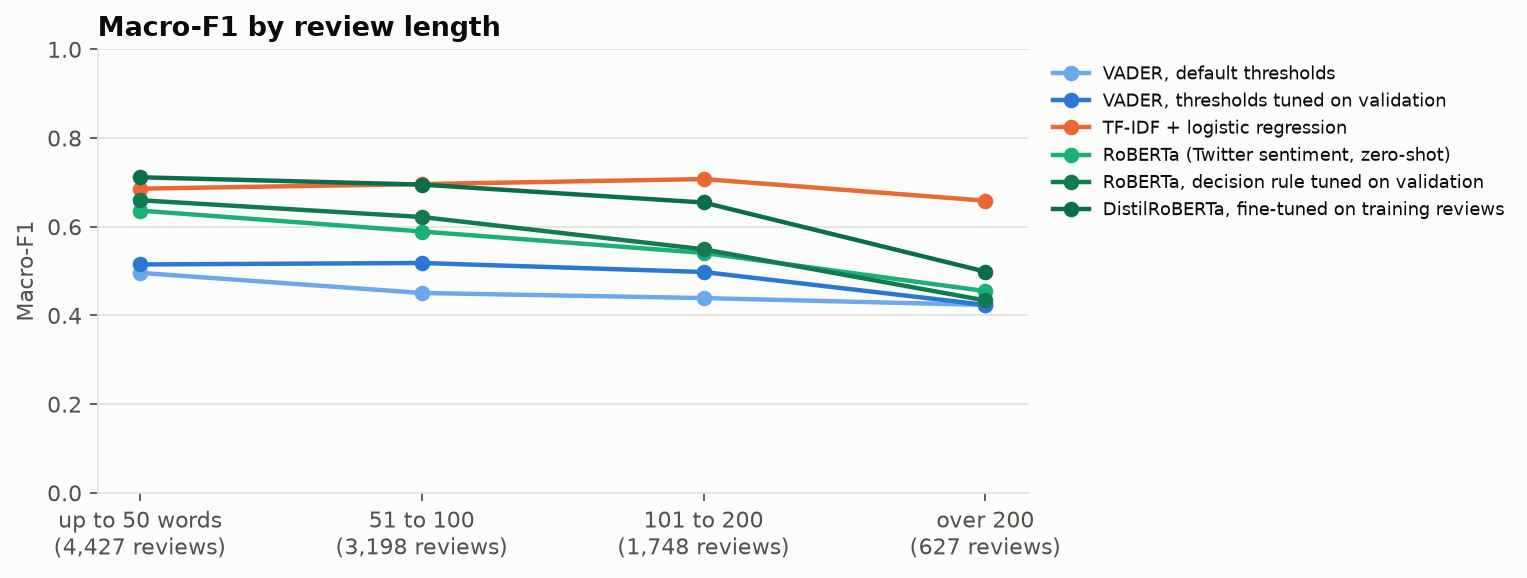
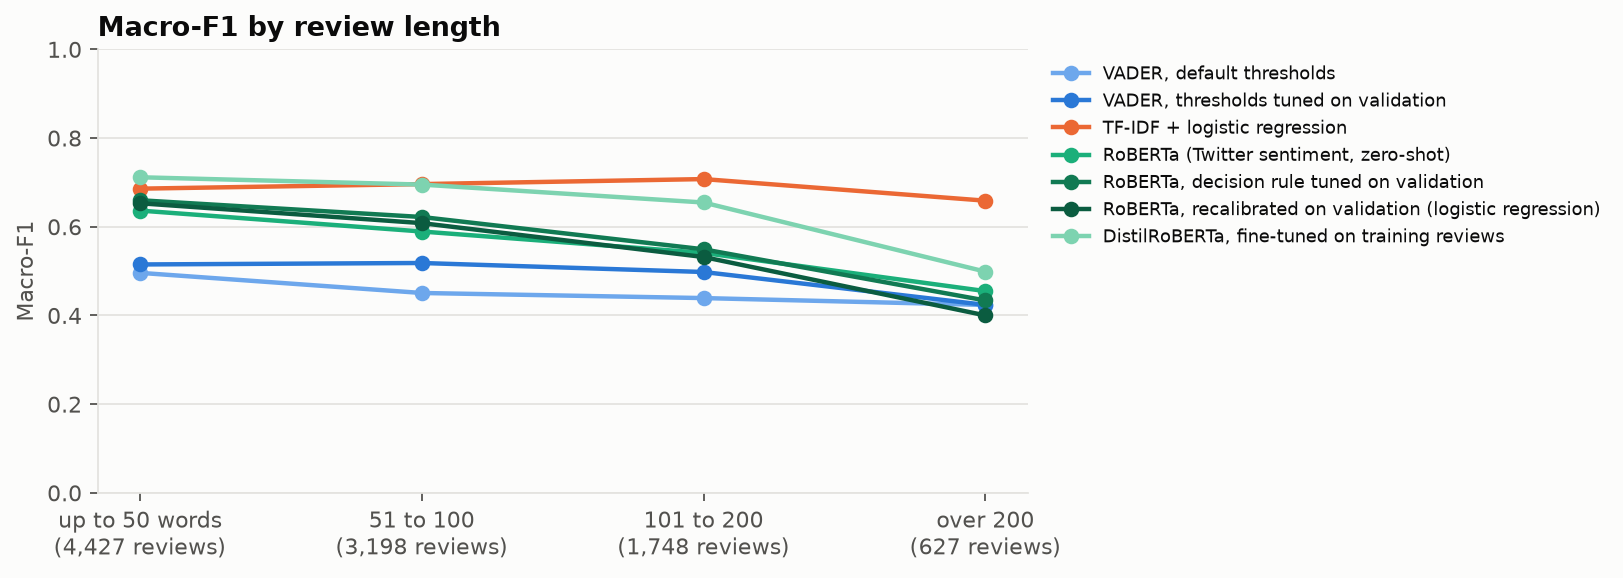
Add a recalibrated RoBERTa and per-class scores to the sentiment results

diff --git a/src/dap/sentiment/models.py b/src/dap/sentiment/models.py
@@ -1,8 +1,8 @@
 """The baselines: VADER (rule-based) and TF-IDF with logistic regression.
 
 Anything that gets tuned (VADER's thresholds, the regression's C and class weights, RoBERTa's
-decision rule) is tuned on the validation reviewers only. The evaluation sample is touched once,
-at the end.
+decision rule and its recalibration) is tuned on the validation reviewers only. The evaluation
+sample is touched once, at the end.
 """
 
 import numpy as np
@@ -11,12 +11,14 @@ from sklearn.feature_extraction.text import TfidfVectorizer
 from sklearn.linear_model import LogisticRegression
 from sklearn.metrics import f1_score
 
+from dap.common.seeds import SEED
 from dap.sentiment.clean import LABELS
 
 VADER_DEFAULT = (-0.05, 0.05)  # the thresholds from the VADER paper, and what my first version used
 THRESHOLD_GRID = np.round(np.arange(-0.95, 0.96, 0.05), 2)
 # Offsets added to RoBERTa's log probabilities for negative and neutral (positive stays at 0)
 OFFSET_GRID = np.round(np.arange(-3.0, 3.01, 0.1), 1)
+CALIBRATION_GRID = (None, "balanced")  # class weighting for the regression on RoBERTa's scores
 TFIDF_GRID = [{"C": c, "class_weight": cw} for c in (0.5, 2.0, 8.0) for cw in (None, "balanced")]
 
 
@@ -117,3 +119,57 @@ def tune_roberta(probs: pd.DataFrame, y: np.ndarray) -> tuple[dict[str, float], 
             if best_key is None or key > best_key:
                 best, best_key = offsets, key
     return best, float(best_key[0])
+
+
+def offsets_inside_grid(offsets: dict[str, float]) -> bool:
+    """True when no tuned offset sits on the grid's edge (an edge means the grid was too small)."""
+    lo, hi = float(OFFSET_GRID.min()), float(OFFSET_GRID.max())
+    return all(lo < offsets[lab] < hi for lab in ("negative", "neutral"))
+
+
+class RobertaCalibration:
+    """A multinomial logistic regression on RoBERTa's three log probabilities ("matrix scaling").
+
+    The offsets above can only shift each class's score; this can also reweight them against each
+    other. It is fitted on validation reviews only, and the class weighting is picked by 5-fold
+    cross-validation inside those reviews, so the fit never scores itself on rows it learnt from.
+    """
+
+    def fit(self, probs: pd.DataFrame, y: np.ndarray, prefix: str = "p_") -> "RobertaCalibration":
+        from sklearn.model_selection import StratifiedKFold, cross_val_predict
+
+        x = self._features(probs, prefix)
+        folds = StratifiedKFold(n_splits=5, shuffle=True, random_state=SEED)
+        self.search_ = {}
+        for cw in CALIBRATION_GRID:
+            pred = cross_val_predict(self._model(cw), x, y, cv=folds)
+            f1 = f1_score(y, pred, average="macro", labels=LABELS, zero_division=0)
+            self.search_[str(cw)] = float(f1)
+        self.class_weight_ = max(CALIBRATION_GRID, key=lambda cw: self.search_[str(cw)])
+        self.cv_macro_f1_ = self.search_[str(self.class_weight_)]
+        self.model_ = self._model(self.class_weight_).fit(x, y)
+        return self
+
+    def predict(self, probs: pd.DataFrame, prefix: str = "p_") -> np.ndarray:
+        return self.model_.predict(self._features(probs, prefix))
+
+    def coefficients(self) -> dict[str, dict[str, float]]:
+        """One row per predicted class: its weight on each log probability, and its intercept."""
+        classes = self.model_.classes_
+        if len(classes) == 2:  # a binary fit keeps one row, for the second class
+            classes = classes[1:]
+        out = {}
+        for i, cls in enumerate(classes):
+            weights = zip(LABELS, self.model_.coef_[i], strict=True)
+            row = {f"log_p_{lab}": float(w) for lab, w in weights}
+            out[str(cls)] = row | {"intercept": float(self.model_.intercept_[i])}
+        return out
+
+    @staticmethod
+    def _model(class_weight):
+        return LogisticRegression(class_weight=class_weight, max_iter=1000)
+
+    @staticmethod
+    def _features(probs: pd.DataFrame, prefix: str) -> np.ndarray:
+        cols = [f"{prefix}{lab}" for lab in LABELS]
+        return np.log(np.clip(probs[cols].to_numpy(dtype=float), 1e-6, None))

diff --git a/src/dap/sentiment/train.py b/src/dap/sentiment/train.py
@@ -31,6 +31,7 @@ LABELS_FOR = {
     "tfidf_logistic": "TF-IDF + logistic regression",
     "roberta": "RoBERTa (Twitter sentiment, zero-shot)",
     "roberta_tuned": "RoBERTa, decision rule tuned on validation",
+    "roberta_calibrated": "RoBERTa, recalibrated on validation (logistic regression)",
     "finetuned": "DistilRoBERTa, fine-tuned on training reviews",
 }
 VADER_TUNING_SIZE = 20_000  # validation reviews used to pick VADER's thresholds
@@ -63,11 +64,33 @@ def roberta_rule(df: pd.DataFrame, path: Path | None = None) -> tuple[dict[str, 
     log.info("RoBERTa: tuning the decision rule on %d validation reviews", len(tune))
     offsets, tuned_f1 = M.tune_roberta(tune, tune.label.to_numpy())
     argmax_f1 = f1_score(tune.label, M.roberta_labels(tune), average="macro", labels=LABELS)
+    grid = M.OFFSET_GRID
     return offsets, {
         "roberta_tuned_log_offsets": offsets,
+        "roberta_offset_grid": {
+            "low": float(grid.min()),
+            "high": float(grid.max()),
+            "step": float(round(grid[1] - grid[0], 6)),
+        },
+        "roberta_offsets_inside_grid": M.offsets_inside_grid(offsets),
         "roberta_tuning_reviews": len(tune),
         "roberta_argmax_validation_macro_f1": float(argmax_f1),
         "roberta_tuned_validation_macro_f1": tuned_f1,
+    }
+
+
+def roberta_calibration(
+    df: pd.DataFrame, path: Path | None = None
+) -> tuple[M.RobertaCalibration, dict]:
+    """Fit the regression on RoBERTa's scores, on the same validation sample as the offsets."""
+    tune = with_roberta(tuning_sample(df), path or validation_cache_path())
+    log.info("RoBERTa: recalibrating on %d validation reviews", len(tune))
+    cal = M.RobertaCalibration().fit(tune, tune.label.to_numpy())
+    return cal, {
+        "roberta_calibrated_class_weight": str(cal.class_weight_),
+        "roberta_calibrated_search": cal.search_,
+        "roberta_calibrated_cv_macro_f1": cal.cv_macro_f1_,
+        "roberta_calibrated_coefficients": cal.coefficients(),
     }
 
 
@@ -97,6 +120,7 @@ def predict_all(
     compound = M.vader_compound(ev.text)
 
     offsets, rule_settings = roberta_rule(df)
+    calibration, calibration_settings = roberta_calibration(df)
 
     log.info("TF-IDF: fitting on %d training reviews", len(train))
     tfidf = M.TfidfLogistic().fit(train.text, train.label, val.text, val.label)
@@ -107,18 +131,23 @@ def predict_all(
         "tfidf_logistic": tfidf.predict(ev.text),
         "roberta": M.roberta_labels(ev),
         "roberta_tuned": M.roberta_labels(ev, offsets),
+        "roberta_calibrated": calibration.predict(ev),
         "finetuned": M.roberta_labels(ev, prefix="ft_p_"),
     }
-    settings = {
-        "vader_default_thresholds": list(M.VADER_DEFAULT),
-        "vader_tuned_thresholds": list(thresholds),
-        "vader_tuning_reviews": len(tune),
-        "vader_tuned_validation_macro_f1": vader_val_f1,
-        "tfidf_params": tfidf.params_,
-        "tfidf_vocabulary": len(tfidf.vectoriser.vocabulary_),
-        "tfidf_validation_macro_f1": tfidf.validation_macro_f1_,
-        "tfidf_search": tfidf.search_,
-    } | rule_settings
+    settings = (
+        {
+            "vader_default_thresholds": list(M.VADER_DEFAULT),
+            "vader_tuned_thresholds": list(thresholds),
+            "vader_tuning_reviews": len(tune),
+            "vader_tuned_validation_macro_f1": vader_val_f1,
+            "tfidf_params": tfidf.params_,
+            "tfidf_vocabulary": len(tfidf.vectoriser.vocabulary_),
+            "tfidf_validation_macro_f1": tfidf.validation_macro_f1_,
+            "tfidf_search": tfidf.search_,
+        }
+        | rule_settings
+        | calibration_settings
+    )
     ev = ev.assign(vader_compound=compound, **{f"pred_{m}": p for m, p in preds.items()})
     return ev, preds, settings, tfidf
 

diff --git a/tests/test_sentiment.py b/tests/test_sentiment.py
@@ -235,6 +235,71 @@ def test_roberta_rule_never_sees_test_rows(tmp_path):
     assert M.tune_roberta(rows, df.label[test].to_numpy())[0] != offsets
 
 
+def test_offsets_on_the_grid_edge_are_flagged():
+    assert M.offsets_inside_grid({"negative": -1.0, "neutral": -0.2, "positive": 0.0})
+    assert not M.offsets_inside_grid({"negative": float(M.OFFSET_GRID.min()), "neutral": 0.0})
+    assert not M.offsets_inside_grid({"negative": 0.0, "neutral": float(M.OFFSET_GRID.max())})
+
+
+def test_committed_rule_is_not_on_the_grid_edge():
+    """Offsets on the grid's edge would mean the grid was too small, and the README wrong."""
+    import json
+
+    from dap.sentiment import train as T
+
+    path = T.reports_dir() / "results.json"
+    if not path.exists():
+        pytest.skip("no sentiment results yet")
+    settings = json.loads(path.read_text(encoding="utf-8"))["settings"]
+    assert settings["roberta_offsets_inside_grid"]
+    assert M.offsets_inside_grid(settings["roberta_tuned_log_offsets"])
+
+
+def test_calibration_fixes_an_under_called_class():
+    probs, y = under_called_neutral(600, 0)
+    cal = M.RobertaCalibration().fit(probs, y)
+    new_probs, new_y = under_called_neutral(600, 5)
+    labels = list(C.LABELS)
+    argmax_f1 = f1_score(new_y, M.roberta_labels(new_probs), average="macro", labels=labels)
+    cal_f1 = f1_score(new_y, cal.predict(new_probs), average="macro", labels=labels)
+    assert cal_f1 > argmax_f1 + 0.2
+    assert set(cal.search_) == {str(cw) for cw in M.CALIBRATION_GRID}
+
+
+def test_calibration_never_sees_test_rows(tmp_path):
+    """Scrambling the test reviewers' labels and RoBERTa outputs must not move the regression."""
+    from dap.sentiment import train as T
+
+    val_probs, val_y = under_called_neutral(300, 1)
+    test_probs, test_y = under_called_neutral(300, 2)
+    df = pd.DataFrame(
+        {
+            "review_id": np.arange(600),
+            "split": ["validation"] * 300 + ["test"] * 300,
+            "label": np.concatenate([val_y, test_y]),
+            "text": "x",
+        }
+    )
+    cache = pd.concat([val_probs, test_probs], ignore_index=True).assign(
+        review_id=df.review_id, n_tokens=5
+    )
+    path = tmp_path / "roberta_validation_predictions.csv"
+    cache.to_csv(path, index=False)
+    before = T.roberta_calibration(df, path)[1]
+
+    rng = np.random.default_rng(3)
+    test = df.split == "test"
+    df.loc[test, "label"] = rng.choice(["negative", "positive"], test.sum())
+    cache.loc[test, ["p_negative", "p_neutral", "p_positive"]] = [0.2, 0.45, 0.35]
+    cache.to_csv(path, index=False)
+    assert T.roberta_calibration(df, path)[1] == before
+
+    # the check has teeth: fitting on those test rows would give different coefficients
+    rows = cache[test.to_numpy()]
+    leaky = M.RobertaCalibration().fit(rows, df.label[test].to_numpy())
+    assert leaky.coefficients() != before["roberta_calibrated_coefficients"]
+
+
 def test_fast_macro_f1_matches_sklearn():
     rng = np.random.default_rng(0)
     y = rng.choice(C.LABELS, 500)

diff --git a/src/dap/sentiment/readme.py b/src/dap/sentiment/readme.py
@@ -15,8 +15,11 @@ ORDER = (
     "tfidf_logistic",
     "roberta",
     "roberta_tuned",
+    "roberta_calibrated",
     "finetuned",
 )
+# The models the per-class table covers: every RoBERTa variant, plus the fine-tuned one for scale
+PER_CLASS = ("roberta", "roberta_tuned", "roberta_calibrated", "finetuned")
 
 
 def readme_path() -> Path:
@@ -70,12 +73,47 @@ def render(r: dict) -> str:
         ("vader_tuned", "vader_default"),
         ("roberta_tuned", "roberta"),
         ("tfidf_logistic", "roberta_tuned"),
+        ("roberta_calibrated", "roberta"),
+        ("roberta_calibrated", "roberta_tuned"),
         ("finetuned", "roberta"),
         ("finetuned", "tfidf_logistic"),
     ):
         names = f"{r['models'][a]['label']} minus {r['models'][b]['label']}"
         lines.append(f"- {names}: {_ci(difference(diffs, a, b))}")
-    lines += ["", END]
+    lines += [
+        "",
+        "Per class, for the RoBERTa variants and the fine-tuned model (precision / recall / F1):",
+        "",
+        "| Model | Negative | Neutral | Positive |",
+        "| --- | --- | --- | --- |",
+    ]
+    for m in PER_CLASS:
+        pc = r["models"][m]["per_class"]
+        cells = [
+            f"{pc[c]['precision']:.2f} / {pc[c]['recall']:.2f} / {pc[c]['f1']:.2f}"
+            for c in ("negative", "neutral", "positive")
+        ]
+        lines.append(f"| {r['models'][m]['label']} | {' | '.join(cells)} |")
+    s = r["settings"]
+    off, grid = s["roberta_tuned_log_offsets"], s["roberta_offset_grid"]
+    edge = (
+        "inside the grid, not on its edge"
+        if s["roberta_offsets_inside_grid"]
+        else "on the edge of the grid, so the grid should be wider"
+    )
+    lines += [
+        "",
+        f"The tuned rule adds {off['negative']:+.1f} to the log probability of negative and "
+        f"{off['neutral']:+.1f} to neutral, picked from a grid of {grid['low']:g} to "
+        f"{grid['high']:g} in steps of {grid['step']:g} on {s['roberta_tuning_reviews']:,} "
+        f"validation reviews "
+        f"(the best pair is {edge}). The recalibration is a logistic regression on RoBERTa's three "
+        f"log probabilities, fitted on the same reviews, with "
+        f"{'balanced' if s['roberta_calibrated_class_weight'] == 'balanced' else 'equal'} "
+        f"class weights (picked by 5-fold cross-validation inside them).",
+        "",
+        END,
+    ]
     return "\n".join(lines)
 
 

diff --git a/src/dap/sentiment/figures.py b/src/dap/sentiment/figures.py
@@ -24,15 +24,16 @@ COLOURS = {
     "vader_tuned": CATEGORICAL[0],
     "tfidf_logistic": CATEGORICAL[1],
     "roberta": CATEGORICAL[2],
-    "roberta_tuned": "#117a53",  # a darker green, so the two RoBERTa rules read as a pair
-    "finetuned": "#0b6e4b",  # a darker shade of the RoBERTa green
+    "roberta_tuned": "#117a53",  # darker greens for the RoBERTa variants
+    "roberta_calibrated": "#0b5c40",
+    "finetuned": "#7dd3b0",  # a light green: same family, but trained differently
 }
 
 
 def macro_f1_chart(results: dict) -> plt.Figure:
     models = results["models"]
     names = list(COLOURS)[::-1]
-    fig, ax = plt.subplots(figsize=(7.5, 3.6))
+    fig, ax = plt.subplots(figsize=(7.5, 0.5 * len(names) + 1))
     for y, m in enumerate(names):
         f1 = models[m]["macro_f1"]
         ax.errorbar(
@@ -64,9 +65,14 @@ def macro_f1_chart(results: dict) -> plt.Figure:
 
 def confusion_grid(results: dict) -> plt.Figure:
     cmap = LinearSegmentedColormap.from_list("blues", [SURFACE, *BLUE_RAMP])
-    fig, axes = plt.subplots(1, len(COLOURS), figsize=(3 * len(COLOURS), 3.4), sharey=True)
+    ncols = 4
+    nrows = -(-len(COLOURS) // ncols)
+    fig, axes = plt.subplots(nrows, ncols, figsize=(3 * ncols, 3.2 * nrows + 0.4), squeeze=False)
+    axes = axes.ravel()
+    for ax in axes[len(COLOURS) :]:
+        ax.set_visible(False)
     short = ["neg", "neu", "pos"]
-    for ax, m in zip(axes, COLOURS, strict=True):
+    for ax, m in zip(axes, COLOURS, strict=False):
         cm = np.array(results["models"][m]["confusion"], dtype=float)
         rows = cm / cm.sum(axis=1, keepdims=True)
         ax.imshow(rows, cmap=cmap, vmin=0, vmax=1)
@@ -86,7 +92,8 @@ def confusion_grid(results: dict) -> plt.Figure:
         ax.set_xlabel("Predicted")
         ax.grid(False)
         ax.set_title(results["models"][m]["label"], fontsize=9, fontweight="normal", loc="left")
-    axes[0].set_ylabel("Actual (from stars)")
+    for ax in axes[::ncols]:
+        ax.set_ylabel("Actual (from stars)")
     fig.suptitle(
         "Where each model's predictions go, as a share of each actual class",
         x=0.01,

diff --git a/projects/sentiment-analysis/README.md b/projects/sentiment-analysis/README.md
@@ -61,6 +61,7 @@ reviews, and where do they all go wrong?
 | TF-IDF + logistic regression | 0.694 (0.681 to 0.706) | 0.851 | 0.52 | 0.78 |
 | RoBERTa (Twitter sentiment, zero-shot) | 0.593 (0.582 to 0.605) | 0.815 | 0.20 | 0.75 |
 | RoBERTa, decision rule tuned on validation | 0.615 (0.603 to 0.627) | 0.817 | 0.33 | 0.62 |
+| RoBERTa, recalibrated on validation (logistic regression) | 0.603 (0.593 to 0.614) | 0.743 | 0.51 | 0.68 |
 | DistilRoBERTa, fine-tuned on training reviews | 0.679 (0.666 to 0.691) | 0.838 | 0.50 | 0.79 |
 
 Differences in macro-F1 (same reviews, paired bootstrap):
@@ -70,8 +71,21 @@ Differences in macro-F1 (same reviews, paired bootstrap):
 - VADER, thresholds tuned on validation minus VADER, default thresholds: 0.041 (0.029 to 0.053)
 - RoBERTa, decision rule tuned on validation minus RoBERTa (Twitter sentiment, zero-shot): 0.021 (0.011 to 0.032)
 - TF-IDF + logistic regression minus RoBERTa, decision rule tuned on validation: 0.080 (0.064 to 0.095)
+- RoBERTa, recalibrated on validation (logistic regression) minus RoBERTa (Twitter sentiment, zero-shot): 0.010 (-0.000 to 0.019)
+- RoBERTa, recalibrated on validation (logistic regression) minus RoBERTa, decision rule tuned on validation: -0.012 (-0.021 to -0.002)
 - DistilRoBERTa, fine-tuned on training reviews minus RoBERTa (Twitter sentiment, zero-shot): 0.085 (0.070 to 0.100)
 - DistilRoBERTa, fine-tuned on training reviews minus TF-IDF + logistic regression: -0.016 (-0.028 to -0.003)
+
+Per class, for the RoBERTa variants and the fine-tuned model (precision / recall / F1):
+
+| Model | Negative | Neutral | Positive |
+| --- | --- | --- | --- |
+| RoBERTa (Twitter sentiment, zero-shot) | 0.63 / 0.75 / 0.68 | 0.18 / 0.20 / 0.19 | 0.93 / 0.89 / 0.91 |
+| RoBERTa, decision rule tuned on validation | 0.75 / 0.62 / 0.68 | 0.21 / 0.33 / 0.26 | 0.92 / 0.90 / 0.91 |
+| RoBERTa, recalibrated on validation (logistic regression) | 0.71 / 0.68 / 0.70 | 0.17 / 0.51 / 0.25 | 0.96 / 0.78 / 0.86 |
+| DistilRoBERTa, fine-tuned on training reviews | 0.66 / 0.79 / 0.72 | 0.33 / 0.50 / 0.40 | 0.97 / 0.88 / 0.92 |
+
+The tuned rule adds -1.0 to the log probability of negative and -0.2 to neutral, picked from a grid of -3 to 3 in steps of 0.1 on 5,000 validation reviews (the best pair is inside the grid, not on its edge). The recalibration is a logistic regression on RoBERTa's three log probabilities, fitted on the same reviews, with balanced class weights (picked by 5-fold cross-validation inside them).
 
 <!-- results:end -->
 
